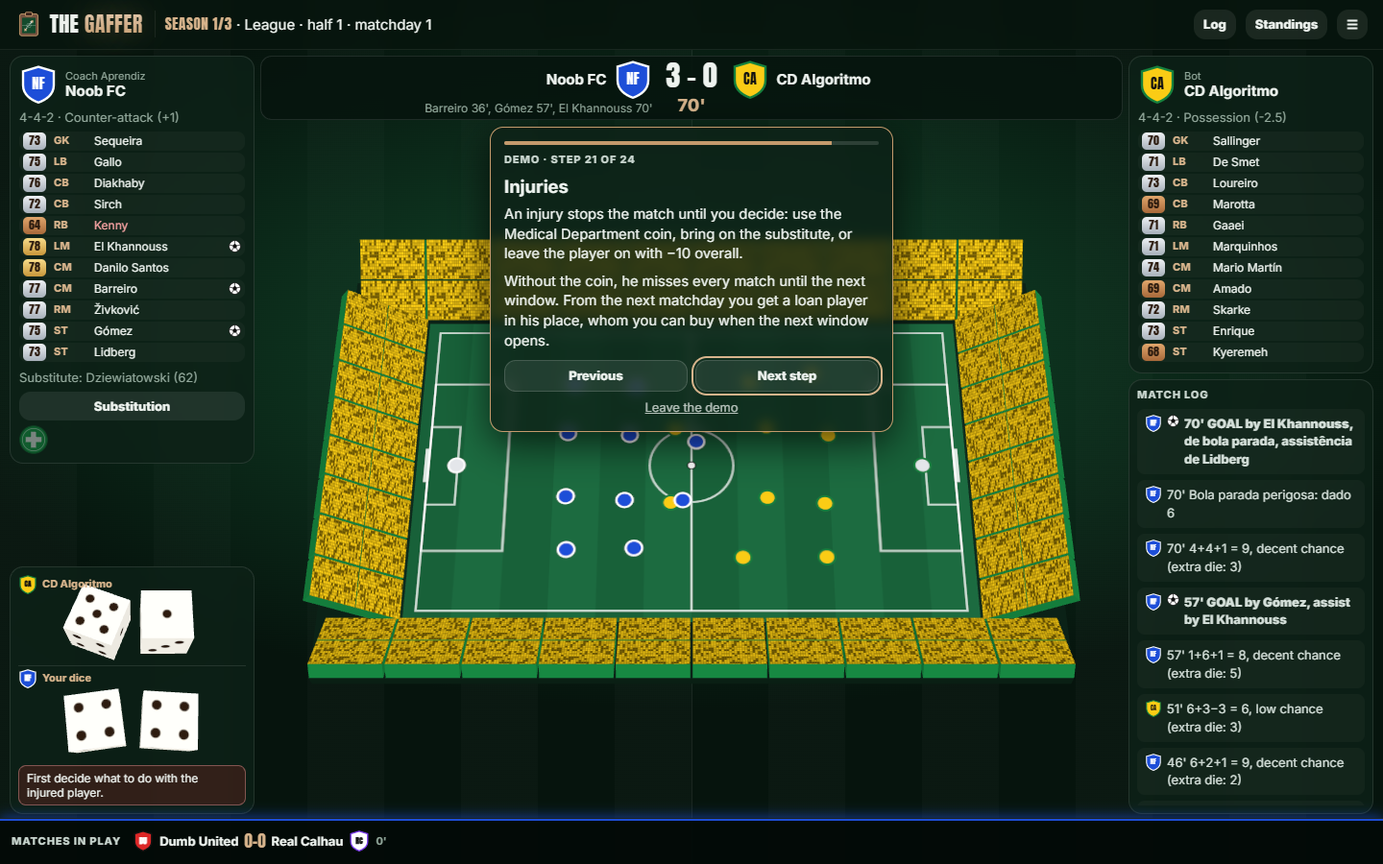
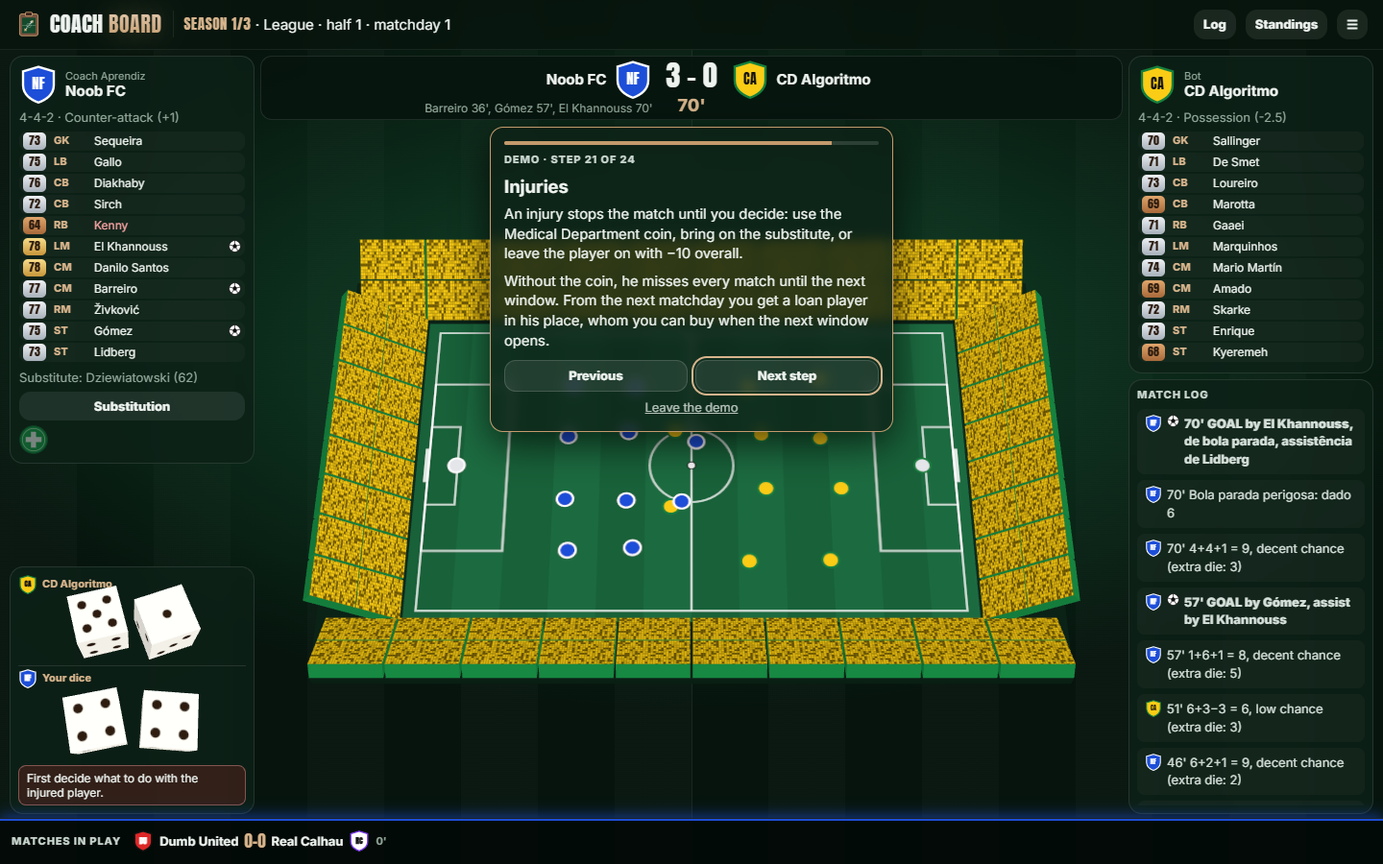
O jogo passa a chamar-se Coach Board
- Nome, título, imagem de pré-visualização, demo e textos em inglês com o nome novo
- Novo endereço: coach-board.bacoinz.workers.dev, e repositório bacoinz/coach-board
- README e imagens refeitos com o nome novo

diff --git a/jogo/public/index.html b/jogo/public/index.html
@@ -3,12 +3,12 @@
 <head>
   <meta charset="utf-8">
   <meta name="viewport" content="width=device-width, initial-scale=1, viewport-fit=cover, interactive-widget=resizes-content">
-  <title>The Gaffer</title>
+  <title>Coach Board</title>
   <meta name="description" content="Cria o teu clube, compra e vende num tabuleiro de mercado e disputa a liga contra os teus amigos, época após época.">
   <meta name="theme-color" content="#3d241d">
   <meta property="og:type" content="website">
-  <meta property="og:site_name" content="The Gaffer">
-  <meta property="og:title" content="The Gaffer">
+  <meta property="og:site_name" content="Coach Board">
+  <meta property="og:title" content="Coach Board">
   <meta property="og:description" content="Cria o teu clube, compra e vende num tabuleiro de mercado e disputa a liga contra os teus amigos, época após época.">
   <!-- O Worker põe aqui o URL absoluto (o Discord não aceita caminhos relativos). -->
   <meta property="og:image" content="/og.png">
@@ -31,7 +31,7 @@
     <div class="idioma-inicio"><select class="campo-idioma" data-mudar-idioma aria-label="Idioma / Language"><option value="pt">Português</option><option value="en">English</option></select></div>
     <header class="marca">
       <img class="logo" src="/favicon.svg" alt="" width="72" height="72">
-      <h1 class="titulo"><span>The</span> <span class="caramelo">Gaffer</span></h1>
+      <h1 class="titulo"><span>Coach</span> <span class="caramelo">Board</span></h1>
       <p class="subtitulo">Cria o teu clube, compra e vende num tabuleiro de mercado e disputa a liga contra os teus amigos, época após época.</p>
     </header>
     <section class="cartao">
@@ -51,9 +51,9 @@
     </div>
     <footer class="rodape-inicio">
       <a class="botao-kofi" href="https://ko-fi.com/bacoinz" target="_blank" rel="noopener"><svg viewBox="0 0 32 24" width="26" height="20" aria-hidden="true"><path fill="#fff" d="M2 2.5C2 1.7 2.7 1 3.5 1h19c.8 0 1.5.7 1.5 1.5V5h1.6C28.6 5 31 7.4 31 10.4s-2.4 5.4-5.4 5.4H23.6C22.4 19.9 18.7 23 14.3 23h-3C6.1 23 2 18.9 2 13.7V2.5zm22 5.7v4.4h1.6c1.2 0 2.2-1 2.2-2.2s-1-2.2-2.2-2.2H24z"/><path fill="#ff5e5b" d="M13 18.2l-4.6-4.3C6.6 12.2 6.9 9.3 9 8.4c1.4-.6 2.9 0 4 1.2 1.1-1.2 2.6-1.8 4-1.2 2.1.9 2.4 3.8.6 5.5L13 18.2z"/></svg><span>Apoiar no Ko-fi</span></a>
-      <a class="ligacao-github" href="https://github.com/bacoinz/the-gaffer" target="_blank" rel="noopener"><svg viewBox="0 0 16 16" width="18" height="18" aria-hidden="true"><path fill="currentColor" d="M8 0C3.58 0 0 3.58 0 8c0 3.54 2.29 6.53 5.47 7.59.4.07.55-.17.55-.38 0-.19-.01-.82-.01-1.49-2.01.37-2.53-.49-2.69-.94-.09-.23-.48-.94-.82-1.13-.28-.15-.68-.52-.01-.53.63-.01 1.08.58 1.23.82.72 1.21 1.87.87 2.33.66.07-.52.28-.87.51-1.07-1.78-.2-3.64-.89-3.64-3.95 0-.87.31-1.59.82-2.15-.08-.2-.36-1.02.08-2.12 0 0 .67-.21 2.2.82.64-.18 1.32-.27 2-.27.68 0 1.36.09 2 .27 1.53-1.04 2.2-.82 2.2-.82.44 1.1.16 1.92.08 2.12.51.56.82 1.27.82 2.15 0 3.07-1.87 3.75-3.65 3.95.29.25.54.73.54 1.48 0 1.07-.01 1.93-.01 2.2 0 .21.15.46.55.38A8.013 8.013 0 0016 8c0-4.42-3.58-8-8-8z"/></svg><span>GitHub</span></a>
+      <a class="ligacao-github" href="https://github.com/bacoinz/coach-board" target="_blank" rel="noopener"><svg viewBox="0 0 16 16" width="18" height="18" aria-hidden="true"><path fill="currentColor" d="M8 0C3.58 0 0 3.58 0 8c0 3.54 2.29 6.53 5.47 7.59.4.07.55-.17.55-.38 0-.19-.01-.82-.01-1.49-2.01.37-2.53-.49-2.69-.94-.09-.23-.48-.94-.82-1.13-.28-.15-.68-.52-.01-.53.63-.01 1.08.58 1.23.82.72 1.21 1.87.87 2.33.66.07-.52.28-.87.51-1.07-1.78-.2-3.64-.89-3.64-3.95 0-.87.31-1.59.82-2.15-.08-.2-.36-1.02.08-2.12 0 0 .67-.21 2.2.82.64-.18 1.32-.27 2-.27.68 0 1.36.09 2 .27 1.53-1.04 2.2-.82 2.2-.82.44 1.1.16 1.92.08 2.12.51.56.82 1.27.82 2.15 0 3.07-1.87 3.75-3.65 3.95.29.25.54.73.54 1.48 0 1.07-.01 1.93-.01 2.2 0 .21.15.46.55.38A8.013 8.013 0 0016 8c0-4.42-3.58-8-8-8z"/></svg><span>GitHub</span></a>
       <span class="versao">v1.0</span>
-      <a class="ligacao-bug" href="https://github.com/bacoinz/the-gaffer/issues/new/choose" target="_blank" rel="noopener">Encontraste um bug?</a>
+      <a class="ligacao-bug" href="https://github.com/bacoinz/coach-board/issues/new/choose" target="_blank" rel="noopener">Encontraste um bug?</a>
     </footer>
   </main>
 
@@ -61,7 +61,7 @@
   <main id="ecra-nome" class="ecra ecra-centro" hidden>
     <header class="marca marca-pequena">
       <img class="logo" src="/favicon.svg" alt="" width="52" height="52">
-      <h1 class="titulo"><span>The</span> <span class="caramelo">Gaffer</span></h1>
+      <h1 class="titulo"><span>Coach</span> <span class="caramelo">Board</span></h1>
     </header>
     <form id="form-nome" class="cartao">
       <p class="rotulo">Sala <strong id="nome-codigo" class="codigo-inline"></strong></p>
@@ -76,7 +76,7 @@
   <main id="ecra-lobby" class="ecra ecra-centro" hidden>
     <header class="marca marca-pequena">
       <img class="logo" src="/favicon.svg" alt="" width="52" height="52">
-      <h1 class="titulo"><span>The</span> <span class="caramelo">Gaffer</span></h1>
+      <h1 class="titulo"><span>Coach</span> <span class="caramelo">Board</span></h1>
     </header>
     <div id="lobby" class="sala-grelha"></div>
   </main>
@@ -86,7 +86,7 @@
     <header class="barra-jogo">
       <div class="barra-marca">
         <img src="/favicon.svg" alt="" width="28" height="28">
-        <span class="barra-nome">The <span class="caramelo">Gaffer</span></span>
+        <span class="barra-nome">Coach <span class="caramelo">Board</span></span>
       </div>
       <p id="barra-info" class="barra-info"></p>
       <button class="btn btn-mini" type="button" data-acao="abrir-registo">Registo</button>

diff --git a/jogo/public/js/ingles.js b/jogo/public/js/ingles.js
@@ -7,7 +7,7 @@ export const PARES = [
   // --- Início, entrada e lobby ---
   ['Cria o teu clube, compra e vende num tabuleiro de mercado e disputa a liga contra os teus amigos, época após época.', 'Build your club, buy and sell on a transfer-market board and fight your friends for the league, season after season.'],
   ['O teu nome', 'Your name'],
-  ['Ex.: Mister', 'E.g. Gaffer'],
+  ['Ex.: Mister', 'E.g. Coach'],
   ['Criar sala', 'Create room'],
   ['ou entra numa sala', 'or join a room'],
   ['CÓDIGO', 'CODE'],
@@ -568,8 +568,8 @@ export const PARES = [
   ['Próximo passo', 'Next step'],
   ['Voltar ao menu', 'Back to menu'],
   ['Sair da demo', 'Leave the demo'],
-  ['Bem-vindo ao The Gaffer', 'Welcome to The Gaffer'],
-  ['O The Gaffer é um jogo de tabuleiro interativo em que és um treinador e jogas contra os teus amigos, época após época, comprando e vendendo jogadores, para ver quem consegue somar mais títulos.', 'The Gaffer is an interactive board game where you are a manager playing against your friends, season after season, buying and selling players to see who can win the most titles.'],
+  ['Bem-vindo ao Coach Board', 'Welcome to Coach Board'],
+  ['O Coach Board é um jogo de tabuleiro interativo em que és um treinador e jogas contra os teus amigos, época após época, comprando e vendendo jogadores, para ver quem consegue somar mais títulos.', 'Coach Board is an interactive board game where you are a manager playing against your friends, season after season, buying and selling players to see who can win the most titles.'],
   ['Cada época tem duas janelas de transferências (verão e inverno) e duas voltas de campeonato.', 'Each season has two transfer windows (summer and winter) and two halves of the league.'],
   ['Começas com 11 jogadores, um orçamento igual para todos, uma marca de equipamento e dois patrocinadores. Toda a informação da tua equipa está no rodapé.', 'You start with 11 players, the same budget as everyone, a kit brand and two sponsors. All your team\'s info is in the bar at the bottom.'],
   ['A formação', 'The formation'],
@@ -643,7 +643,7 @@ export const PARES = [
   ['Campeão!', 'Champions!'],
   ['No fim da época vês quem foi o campeão, os melhores marcadores e assistências, os melhores e piores momentos e a equipa da época.', 'At the end of the season you see the champion, the top scorers and assists, the best and worst moments and the team of the season.'],
   ['Em "Continuar" vês a evolução do teu plantel para a próxima época, e começa tudo outra vez, agora com jogadores melhores e mais caros.', 'Under "Continue" you see how your squad has developed for next season, and it all starts again, now with better and pricier players.'],
-  ['Agora é a tua vez! Cria uma sala, partilha o link e joga contra os teus amigos. Sê campeão com o teu clube no The Gaffer.', 'Now it\'s your turn! Create a room, share the link and play against your friends. Be a champion with your club in The Gaffer.'],
+  ['Agora é a tua vez! Cria uma sala, partilha o link e joga contra os teus amigos. Sê campeão com o teu clube no Coach Board.', 'Now it\'s your turn! Create a room, share the link and play against your friends. Be a champion with your club in Coach Board.'],
   ['Ah, e não te esqueças de clicar em "TERMINAR A VEZ" quando acabares de jogar, se faz favor!', 'Oh, and don\'t forget to click "END TURN" when you are done, please!'],
 
   // --- Mensagens do servidor: registo, erros e momentos ---

diff --git a/jogo/public/mockup.html b/jogo/public/mockup.html
@@ -3,12 +3,12 @@
 <head>
   <meta charset="utf-8">
   <meta name="viewport" content="width=device-width, initial-scale=1, viewport-fit=cover, interactive-widget=resizes-content">
-  <title>The Gaffer — mockup do tema</title>
+  <title>Coach Board — mockup do tema</title>
   <meta name="description" content="Mercado de transferências estilo Monopólio e campeonato entre amigos. Compra, vende, leiloa e ganha a liga.">
   <meta name="theme-color" content="#3d241d">
   <meta property="og:type" content="website">
-  <meta property="og:site_name" content="The Gaffer">
-  <meta property="og:title" content="The Gaffer">
+  <meta property="og:site_name" content="Coach Board">
+  <meta property="og:title" content="Coach Board">
   <meta property="og:description" content="Mercado de transferências estilo Monopólio e campeonato entre amigos. Compra, vende, leiloa e ganha a liga.">
   <meta property="og:image" content="/og.png">
   <meta property="og:image:width" content="1200">
@@ -41,7 +41,7 @@
   <main id="vista-inicio" class="ecra ecra-centro" hidden>
     <header class="marca">
       <img class="logo" src="/favicon.svg" alt="" width="72" height="72">
-      <h1 class="titulo"><span>The</span> <span class="caramelo">Gaffer</span></h1>
+      <h1 class="titulo"><span>Coach</span> <span class="caramelo">Board</span></h1>
       <p class="subtitulo">Cria o teu clube, compra e vende num tabuleiro de mercado e disputa a liga contra os teus amigos, época após época.</p>
     </header>
     <section class="cartao">
@@ -62,7 +62,7 @@
   <main id="vista-sala" class="ecra ecra-centro" hidden>
     <header class="marca marca-pequena">
       <img class="logo" src="/favicon.svg" alt="" width="52" height="52">
-      <h1 class="titulo"><span>The</span> <span class="caramelo">Gaffer</span></h1>
+      <h1 class="titulo"><span>Coach</span> <span class="caramelo">Board</span></h1>
     </header>
 
     <div class="sala-grelha">

diff --git a/jogo/src/index.js b/jogo/src/index.js
@@ -34,7 +34,7 @@ async function pagina(request, env, codigo = null) {
   const imagem = new URL('/og.png', request.url).href;
   let reescrever = new HTMLRewriter().on('meta[property="og:image"]', { element: (el) => el.setAttribute('content', imagem) });
   if (codigo) {
-    const titulo = `The Gaffer · Sala ${codigo}`;
+    const titulo = `Coach Board · Sala ${codigo}`;
     const descricao = `Entra na sala ${codigo}: cria o teu clube, compra e vende no tabuleiro de mercado e ganha a liga.`;
     reescrever = reescrever
       .on('meta[property="og:title"]', { element: (el) => el.setAttribute('content', titulo) })

diff --git a/jogo/scripts/og.html b/jogo/scripts/og.html
@@ -24,7 +24,7 @@
 </head>
 <body>
   <div class="fila" id="cima"></div>
-  <div class="relvado"><div class="sombra"></div><div><h1>THE <span>GAFFER</span></h1><p>Cria o clube. Domina o mercado. Ganha a liga.</p></div></div>
+  <div class="relvado"><div class="sombra"></div><div><h1>COACH <span>BOARD</span></h1><p>Cria o clube. Domina o mercado. Ganha a liga.</p></div></div>
   <div class="fila" id="baixo"></div>
 <script type="module">
   import { pintarCasa } from '/js/casas.js';

diff --git a/jogo/public/js/app.js b/jogo/public/js/app.js
@@ -1,4 +1,4 @@
-// Cliente do The Gaffer: ecrãs de início e lobby, e a janela de transferências (tabuleiro 2D, draft, leilões,
+// Cliente do Coach Board: ecrãs de início e lobby, e a janela de transferências (tabuleiro 2D, draft, leilões,
 // propostas, fecho). O servidor é autoritativo: aqui só se desenha o estado e se enviam intenções.
 import { instalarTradutor, mudarIdioma, IDIOMA, traduzir, nomeNacao } from './idioma.js';
 import { Ligacao } from './ligacao.js';

diff --git a/jogo/public/css/app.css b/jogo/public/css/app.css
@@ -1,6 +1,6 @@
-/* The Gaffer: o que é próprio deste jogo (o tema partilhado está em tema.css). */
+/* Coach Board: o que é próprio deste jogo (o tema partilhado está em tema.css). */
 
-/* A palavra em destaque do título ("Gaffer", "jogar", "final"). */
+/* A palavra em destaque do título ("Board", "jogar", "final"). */
 .caramelo {
   background: linear-gradient(180deg, var(--destaque-claro), var(--destaque));
   -webkit-background-clip: text;

diff --git a/jogo/public/css/jogo.css b/jogo/public/css/jogo.css
@@ -1,4 +1,4 @@
-/* The Gaffer: ecrã do jogo (janela de transferências), tabuleiro 2D e cartas de jogador. */
+/* Coach Board: ecrã do jogo (janela de transferências), tabuleiro 2D e cartas de jogador. */
 
 /* --- Barra e grelha --- */
 .barra-jogo {

diff --git a/README.md b/README.md
@@ -1,28 +1,28 @@
 <div align="center">
 
-<img src="jogo/public/favicon.svg" alt="The Gaffer logo" width="96" height="96">
+<img src="jogo/public/favicon.svg" alt="Coach Board logo" width="96" height="96">
 
-# The Gaffer
+# Coach Board
 
 **A multiplayer football board game: build your club, play the transfer market and win the league against your friends.**<br>
 Real players, a Monopoly-style transfer board and dice-driven matches, season after season. Free to host on Cloudflare.
 
-<a href="https://the-gaffer.bacoinz.workers.dev"><img src="https://img.shields.io/badge/play-the--gaffer.bacoinz.workers.dev-c49a6c?style=flat-square&labelColor=0b1a12" alt="Play online"></a> <img src="https://img.shields.io/badge/version-1.0-c49a6c?style=flat-square&labelColor=0b1a12" alt="Version 1.0"> <a href="LICENSE.md"><img src="https://img.shields.io/badge/license-PolyForm%20Noncommercial-c49a6c?style=flat-square&labelColor=0b1a12" alt="License: PolyForm Noncommercial"></a> <img src="https://img.shields.io/badge/cost-0%20%E2%82%AC%2Fmonth-c49a6c?style=flat-square&labelColor=0b1a12" alt="Cost: 0 €/month"> <img src="https://img.shields.io/badge/Cloudflare-Workers%20%C2%B7%20Durable%20Objects-c49a6c?style=flat-square&logo=cloudflare&logoColor=white&labelColor=0b1a12" alt="Cloudflare Workers and Durable Objects"> <img src="https://img.shields.io/badge/interface-English%20%C2%B7%20Portugu%C3%AAs-c49a6c?style=flat-square&labelColor=0b1a12" alt="Interface: English and Portuguese">
+<a href="https://coach-board.bacoinz.workers.dev"><img src="https://img.shields.io/badge/play-coach--board.bacoinz.workers.dev-c49a6c?style=flat-square&labelColor=0b1a12" alt="Play online"></a> <img src="https://img.shields.io/badge/version-1.0-c49a6c?style=flat-square&labelColor=0b1a12" alt="Version 1.0"> <a href="LICENSE.md"><img src="https://img.shields.io/badge/license-PolyForm%20Noncommercial-c49a6c?style=flat-square&labelColor=0b1a12" alt="License: PolyForm Noncommercial"></a> <img src="https://img.shields.io/badge/cost-0%20%E2%82%AC%2Fmonth-c49a6c?style=flat-square&labelColor=0b1a12" alt="Cost: 0 €/month"> <img src="https://img.shields.io/badge/Cloudflare-Workers%20%C2%B7%20Durable%20Objects-c49a6c?style=flat-square&logo=cloudflare&logoColor=white&labelColor=0b1a12" alt="Cloudflare Workers and Durable Objects"> <img src="https://img.shields.io/badge/interface-English%20%C2%B7%20Portugu%C3%AAs-c49a6c?style=flat-square&labelColor=0b1a12" alt="Interface: English and Portuguese">
 
-[**▶ Play now**](https://the-gaffer.bacoinz.workers.dev) · [Watch the demo](https://the-gaffer.bacoinz.workers.dev/demo?lang=en) · [How to play](#how-to-play) · [Run your own](#run-your-own) · [Report a bug](https://github.com/bacoinz/the-gaffer/issues/new/choose) · [🇵🇹 Português](README.pt-PT.md)
+[**▶ Play now**](https://coach-board.bacoinz.workers.dev) · [Watch the demo](https://coach-board.bacoinz.workers.dev/demo?lang=en) · [How to play](#how-to-play) · [Run your own](#run-your-own) · [Report a bug](https://github.com/bacoinz/coach-board/issues/new/choose) · [🇵🇹 Português](README.pt-PT.md)
 
 <img src="docs/screenshots/market.png" alt="The transfer board, with a player card from the Market" width="100%">
 
 </div>
 
 > [!TIP]
-> **Try it right now:** open **[the-gaffer.bacoinz.workers.dev](https://the-gaffer.bacoinz.workers.dev)**, create a room and share the link with your friends. No account, no install. New to the game? The **[guided demo](https://the-gaffer.bacoinz.workers.dev/demo?lang=en)** walks you through everything.
+> **Try it right now:** open **[coach-board.bacoinz.workers.dev](https://coach-board.bacoinz.workers.dev)**, create a room and share the link with your friends. No account, no install. New to the game? The **[guided demo](https://coach-board.bacoinz.workers.dev/demo?lang=en)** walks you through everything.
 
-## Why The Gaffer
+## Why Coach Board
 
 Football manager games are great alone, but hard to play *with* your mates. Board games are fun with friends, but nobody wants to keep track of transfer fees and league tables on paper.
 
-The Gaffer is both: a quick, chaotic board game where everyone is a manager, the transfer market is a board you roll dice around, and the matches are played out live with dice, tactics and the odd ridiculous injury. A match takes from one evening (3 seasons) to a long campaign (10 seasons), and the room saves itself so you can pick it up later.
+Coach Board is both: a quick, chaotic board game where everyone is a manager, the transfer market is a board you roll dice around, and the matches are played out live with dice, tactics and the odd ridiculous injury. A match takes from one evening (3 seasons) to a long campaign (10 seasons), and the room saves itself so you can pick it up later.
 
 ## Features
 
@@ -83,21 +83,21 @@ The Gaffer is both: a quick, chaotic board game where everyone is a manager, the
 
 ## How to play
 
-1. **Create a room** at [the-gaffer.bacoinz.workers.dev](https://the-gaffer.bacoinz.workers.dev) and share the link (Discord works great). Everyone sets up their team in the lobby, and the host picks the length (3, 5, 8 or 10 seasons) and the bots.
+1. **Create a room** at [coach-board.bacoinz.workers.dev](https://coach-board.bacoinz.workers.dev) and share the link (Discord works great). Everyone sets up their team in the lobby, and the host picks the length (3, 5, 8 or 10 seasons) and the bots.
 2. **Each season has two transfer windows** (summer and winter), each followed by half of the league.
 3. **In the window**, choose your formation, pick a youngster in the draft, then take turns rolling the die around the board. Each square does something: buy players, get sponsors, agents, scouts, money from the board, or a Mystery card. On your turn you can also bid for other managers' players. Don't forget to press **END TURN**.
 4. **At the window closing** you keep your starting 11 and one academy player. The rest are sold to the bank.
 5. **In the league**, pick a secret tactic before each match, then roll the dice in turns. Decide what to do when someone gets injured.
 6. **At the end**, whoever has the most titles wins (a Cup is worth half a league).
 
-The full rules are in the in-game **How to play** menu and, in Portuguese, in [docs/regras.md](docs/regras.md). The quickest way to learn is the [guided demo](https://the-gaffer.bacoinz.workers.dev/demo?lang=en).
+The full rules are in the in-game **How to play** menu and, in Portuguese, in [docs/regras.md](docs/regras.md). The quickest way to learn is the [guided demo](https://coach-board.bacoinz.workers.dev/demo?lang=en).
 
 ## Run your own
 
 You need Node 22+ and, to put it online, a free Cloudflare account. It takes about 10 minutes, and there is nothing to configure: no database, no secrets.
 
 ```bash
-git clone https://github.com/bacoinz/the-gaffer && cd the-gaffer/jogo
+git clone https://github.com/bacoinz/coach-board && cd coach-board/jogo
 npm install
 npm run dev
 ```
@@ -153,18 +153,18 @@ Useful commands, inside `jogo/`: `npm run dev`, `npm test`, `npm run simular`, `
 
 ## Found a bug?
 
-This is version **1.0**, and there will be bugs. If you find one, please **[open an issue](https://github.com/bacoinz/the-gaffer/issues/new/choose)** saying what you did, what happened and, if you can, a screenshot. Ideas and balance feedback are welcome too.
+This is version **1.0**, and there will be bugs. If you find one, please **[open an issue](https://github.com/bacoinz/coach-board/issues/new/choose)** saying what you did, what happened and, if you can, a screenshot. Ideas and balance feedback are welcome too.
 
 ## Support
 
-The Gaffer is free and has no ads. If you enjoyed it, you can buy me a coffee:
+Coach Board is free and has no ads. If you enjoyed it, you can buy me a coffee:
 
 <a href="https://ko-fi.com/bacoinz"><img src="https://ko-fi.com/img/githubbutton_sm.svg" alt="Support me on Ko-fi"></a>
 
 ## Credits
 
 - Player ratings: [EA SPORTS FC 27 Player Ratings](https://www.kaggle.com/datasets/mikedpad/ea-sports-fc27-player-ratings) (Kaggle). Photos: [Wikimedia Commons](https://commons.wikimedia.org), with the credits in [`jogo/public/LICENCAS.txt`](jogo/public/LICENCAS.txt).
-- The Gaffer is a fan-made game, not affiliated with EA SPORTS, the clubs or the leagues. The brands and sponsors in the game are parodies.
+- Coach Board is a fan-made game, not affiliated with EA SPORTS, the clubs or the leagues. The brands and sponsors in the game are parodies.
 
 ## License
 

diff --git a/README.pt-PT.md b/README.pt-PT.md
@@ -1,22 +1,22 @@
 <div align="center">
 
-<img src="jogo/public/favicon.svg" alt="Logótipo do The Gaffer" width="96" height="96">
+<img src="jogo/public/favicon.svg" alt="Logótipo do Coach Board" width="96" height="96">
 
-# The Gaffer
+# Coach Board
 
 **Um jogo de tabuleiro de futebol multijogador: cria o teu clube, joga o mercado de transferências e ganha a liga aos teus amigos.**<br>
 Jogadores reais, um tabuleiro de mercado ao estilo Monopólio e jogos decididos aos dados, época após época. Aloja-se de graça na Cloudflare.
 
-<a href="https://the-gaffer.bacoinz.workers.dev"><img src="https://img.shields.io/badge/jogar-the--gaffer.bacoinz.workers.dev-c49a6c?style=flat-square&labelColor=0b1a12" alt="Jogar online"></a> <img src="https://img.shields.io/badge/vers%C3%A3o-1.0-c49a6c?style=flat-square&labelColor=0b1a12" alt="Versão 1.0"> <a href="LICENSE.md"><img src="https://img.shields.io/badge/licen%C3%A7a-PolyForm%20Noncommercial-c49a6c?style=flat-square&labelColor=0b1a12" alt="Licença: PolyForm Noncommercial"></a> <img src="https://img.shields.io/badge/custo-0%20%E2%82%AC%2Fm%C3%AAs-c49a6c?style=flat-square&labelColor=0b1a12" alt="Custo: 0 €/mês"> <img src="https://img.shields.io/badge/Cloudflare-Workers%20%C2%B7%20Durable%20Objects-c49a6c?style=flat-square&logo=cloudflare&logoColor=white&labelColor=0b1a12" alt="Cloudflare Workers e Durable Objects">
+<a href="https://coach-board.bacoinz.workers.dev"><img src="https://img.shields.io/badge/jogar-coach--board.bacoinz.workers.dev-c49a6c?style=flat-square&labelColor=0b1a12" alt="Jogar online"></a> <img src="https://img.shields.io/badge/vers%C3%A3o-1.0-c49a6c?style=flat-square&labelColor=0b1a12" alt="Versão 1.0"> <a href="LICENSE.md"><img src="https://img.shields.io/badge/licen%C3%A7a-PolyForm%20Noncommercial-c49a6c?style=flat-square&labelColor=0b1a12" alt="Licença: PolyForm Noncommercial"></a> <img src="https://img.shields.io/badge/custo-0%20%E2%82%AC%2Fm%C3%AAs-c49a6c?style=flat-square&labelColor=0b1a12" alt="Custo: 0 €/mês"> <img src="https://img.shields.io/badge/Cloudflare-Workers%20%C2%B7%20Durable%20Objects-c49a6c?style=flat-square&logo=cloudflare&logoColor=white&labelColor=0b1a12" alt="Cloudflare Workers e Durable Objects">
 
-[**▶ Jogar agora**](https://the-gaffer.bacoinz.workers.dev) · [Ver a demo](https://the-gaffer.bacoinz.workers.dev/demo?lang=pt) · [Como jogar](#como-jogar) · [Alojar o teu](#alojar-o-teu) · [Reportar um bug](https://github.com/bacoinz/the-gaffer/issues/new/choose) · [🇬🇧 English](README.md)
+[**▶ Jogar agora**](https://coach-board.bacoinz.workers.dev) · [Ver a demo](https://coach-board.bacoinz.workers.dev/demo?lang=pt) · [Como jogar](#como-jogar) · [Alojar o teu](#alojar-o-teu) · [Reportar um bug](https://github.com/bacoinz/coach-board/issues/new/choose) · [🇬🇧 English](README.md)
 
 <img src="docs/screenshots/market.png" alt="O tabuleiro de transferências, com uma carta do Mercado" width="100%">
 
 </div>
 
 > [!TIP]
-> **Experimenta já:** abre **[the-gaffer.bacoinz.workers.dev](https://the-gaffer.bacoinz.workers.dev)**, cria uma sala e partilha o link com os teus amigos. Sem conta e sem instalar nada. Primeira vez? A **[demo guiada](https://the-gaffer.bacoinz.workers.dev/demo?lang=pt)** explica tudo, passo a passo.
+> **Experimenta já:** abre **[coach-board.bacoinz.workers.dev](https://coach-board.bacoinz.workers.dev)**, cria uma sala e partilha o link com os teus amigos. Sem conta e sem instalar nada. Primeira vez? A **[demo guiada](https://coach-board.bacoinz.workers.dev/demo?lang=pt)** explica tudo, passo a passo.
 
 ## O que é
 
@@ -52,7 +52,7 @@ Cada um é o treinador de uma equipa. Nas janelas de transferências joga-se um 
 
 ## Como jogar
 
-1. **Cria uma sala** em [the-gaffer.bacoinz.workers.dev](https://the-gaffer.bacoinz.workers.dev) e partilha o link (no Discord funciona bem). Cada um prepara a equipa na sala, e o anfitrião escolhe a duração (3, 5, 8 ou 10 épocas) e os bots.
+1. **Cria uma sala** em [coach-board.bacoinz.workers.dev](https://coach-board.bacoinz.workers.dev) e partilha o link (no Discord funciona bem). Cada um prepara a equipa na sala, e o anfitrião escolhe a duração (3, 5, 8 ou 10 épocas) e os bots.
 2. **Cada época tem duas janelas de transferências** (verão e inverno), cada uma seguida de meio campeonato.
 3. **Na janela**, escolhe a formação, escolhe um jovem no draft e, à vez, lança o dado no tabuleiro. Cada casa faz uma coisa diferente. Na tua vez também podes fazer propostas pelos jogadores dos outros. Não te esqueças de carregar em **TERMINAR A VEZ**.
 4. **No fecho da janela** ficas com os 11 titulares e um jogador da formação. O resto é vendido à banca.
@@ -66,7 +66,7 @@ As regras completas estão em [docs/regras.md](docs/regras.md) e no menu **Como 
 Precisas do Node 22 ou mais recente e, para pôr online, de uma conta gratuita na Cloudflare. Demora uns 10 minutos e não há nada para configurar: nem base de dados, nem segredos.
 
 ```bash
-git clone https://github.com/bacoinz/the-gaffer && cd the-gaffer/jogo
+git clone https://github.com/bacoinz/coach-board && cd coach-board/jogo
 npm install
 npm run dev
 ```
@@ -87,18 +87,18 @@ E pronto: partilha o endereço com os teus amigos.
 
 ## Encontraste um bug?
 
-Esta é a versão **1.0**, e vai haver bugs. Se encontrares um, **[abre um issue](https://github.com/bacoinz/the-gaffer/issues/new/choose)** a dizer o que fizeste, o que aconteceu e, se puderes, com uma imagem. Ideias e opiniões sobre o equilíbrio também são bem-vindas.
+Esta é a versão **1.0**, e vai haver bugs. Se encontrares um, **[abre um issue](https://github.com/bacoinz/coach-board/issues/new/choose)** a dizer o que fizeste, o que aconteceu e, se puderes, com uma imagem. Ideias e opiniões sobre o equilíbrio também são bem-vindas.
 
 ## Apoiar
 
-O The Gaffer é gratuito e não tem anúncios. Se gostaste, podes oferecer-me um café:
+O Coach Board é gratuito e não tem anúncios. Se gostaste, podes oferecer-me um café:
 
 <a href="https://ko-fi.com/bacoinz"><img src="https://ko-fi.com/img/githubbutton_sm.svg" alt="Apoiar no Ko-fi"></a>
 
 ## Créditos
 
 - Ratings dos jogadores: [EA SPORTS FC 27 Player Ratings](https://www.kaggle.com/datasets/mikedpad/ea-sports-fc27-player-ratings) (Kaggle). Fotos: [Wikimedia Commons](https://commons.wikimedia.org), com os créditos em [`jogo/public/LICENCAS.txt`](jogo/public/LICENCAS.txt).
-- O The Gaffer é um jogo de fã, sem ligação à EA SPORTS, aos clubes ou às ligas. As marcas e os patrocinadores do jogo são paródias.
+- O Coach Board é um jogo de fã, sem ligação à EA SPORTS, aos clubes ou às ligas. As marcas e os patrocinadores do jogo são paródias.
 
 ## Licença
 

diff --git a/docs/tema.md b/docs/tema.md
@@ -1,6 +1,6 @@
 # Tema
 
-O The Gaffer usa o tema partilhado dos outros jogos: `jogo/public/css/tema.css`, copiado do Scout Report. Mantém-se
+O Coach Board usa o tema partilhado dos outros jogos: `jogo/public/css/tema.css`, copiado do Scout Report. Mantém-se
 tudo igual (relvado escuro, painéis, Anton + Inter, botões, salas, placar, pódio, `<dialog>` "Como jogar" com passos
 01., 02., … e botão "Percebi") e só muda a cor de destaque.
 

diff --git a/docs/regras.md b/docs/regras.md
@@ -1,4 +1,4 @@
-# The Gaffer — regras
+# Coach Board — regras
 
 Referência das regras do jogo, por ordem cronológica. Os números (dinheiro, preços, probabilidades, bónus) estão
 todos em `jogo/src/config.js`; aqui aparecem só os que fazem parte da regra. As decisões que não vinham na
